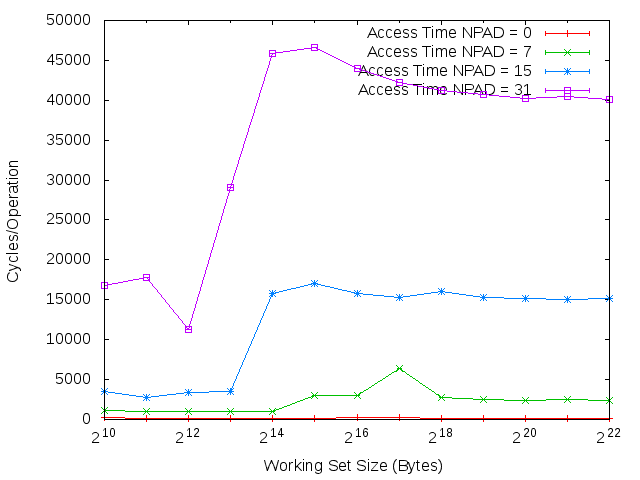
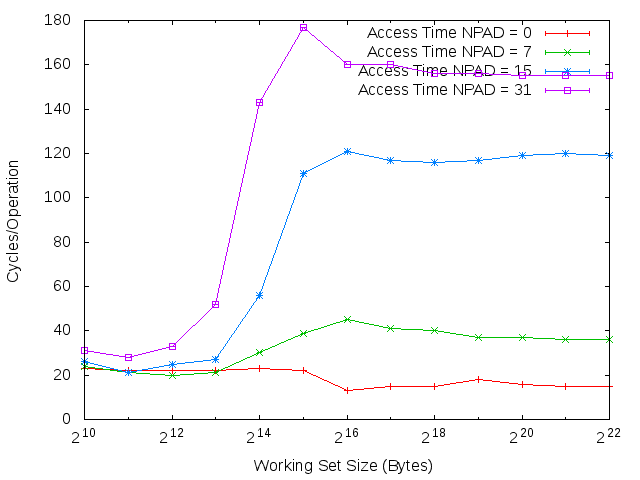
added exercise content

diff --git a/exercise_2/task_2/main.cpp b/exercise_2/task_2/main.cpp
@@ -54,7 +54,7 @@ int main() {
             current = next;
         }
         
-        unsigned yValue = (ticksEnd - ticksStart) / (i/sizeof(l));
+        unsigned yValue = (ticksEnd - ticksStart) / i;
         unsigned xValue = exp;
 
         fprintf(pFile, "%d\t%d\n", xValue, yValue);
